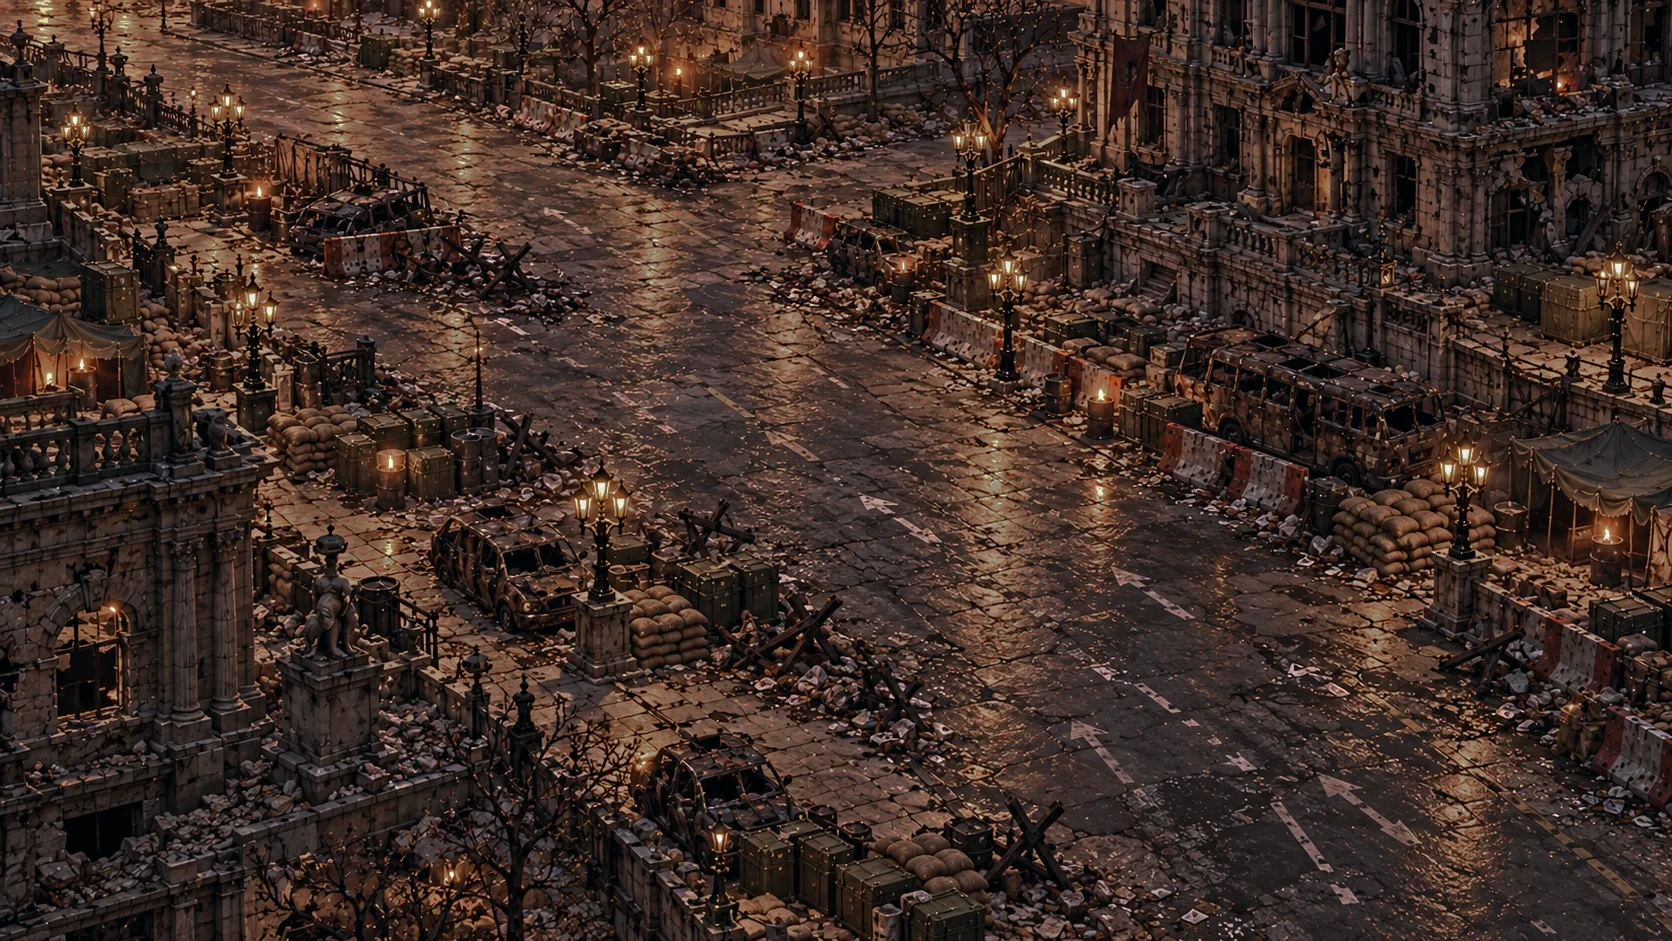
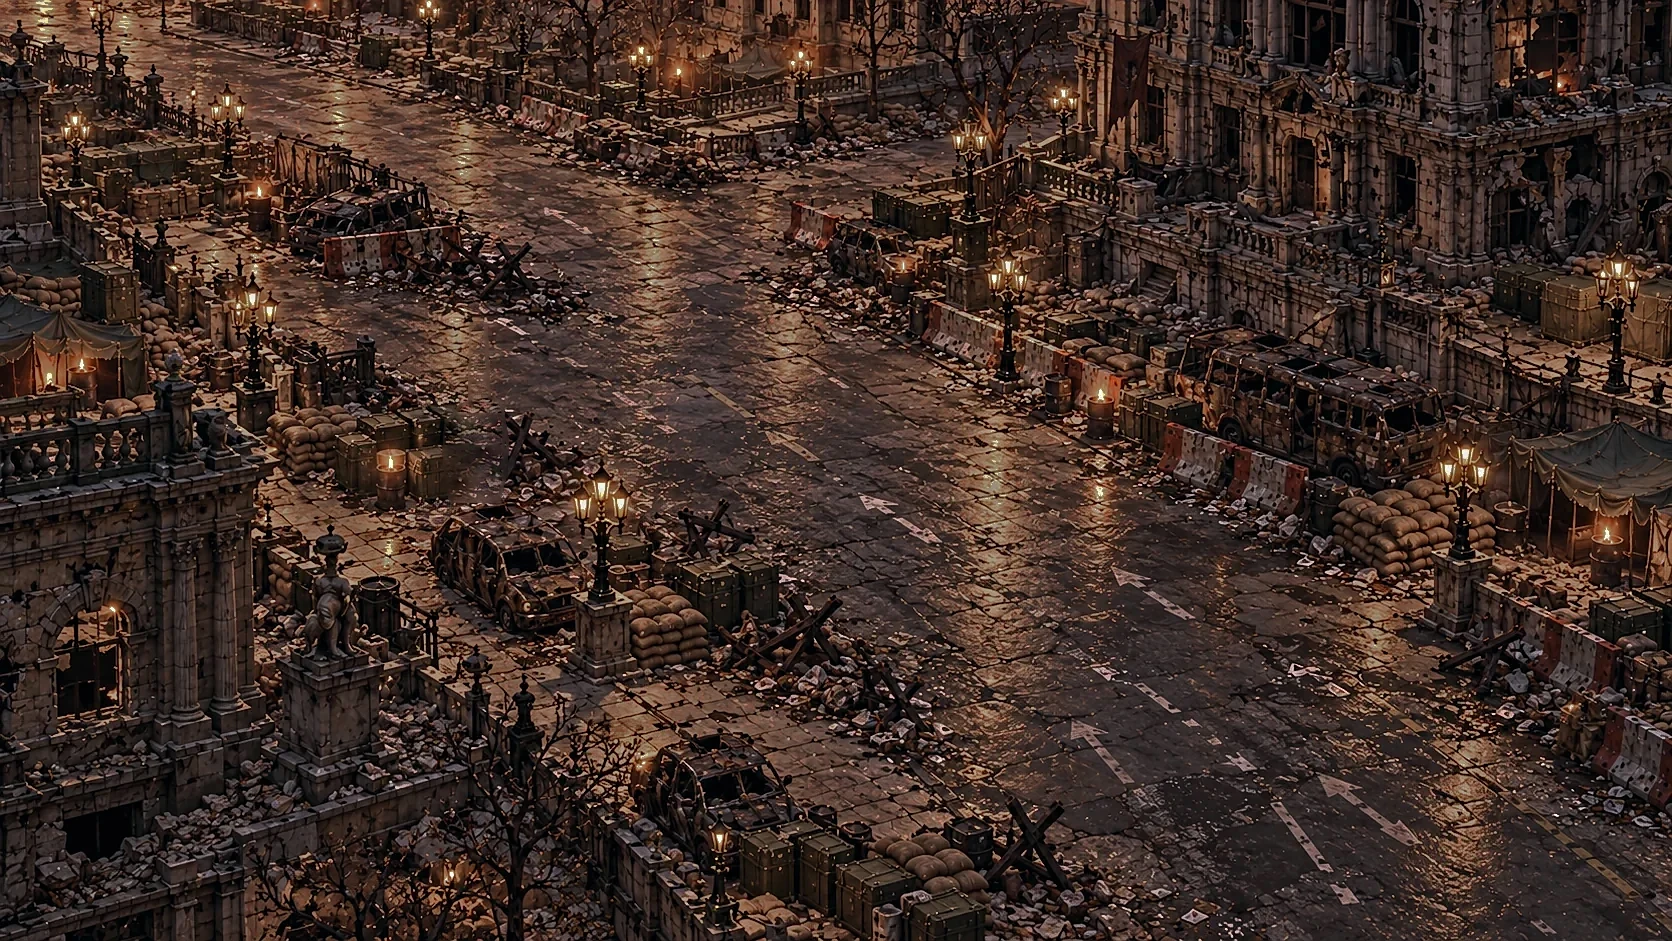
Lambeth: zoom out the camera 20%, sharpen the backdrop, make the lamp-post pocket walkable and paint the lamp out

Changed region(s): [[0.2488, 0.339, 0.311, 0.5547]]

diff --git a/Web/tests/data-areas.test.js b/Web/tests/data-areas.test.js
@@ -16,7 +16,7 @@ const raw = () => structuredClone(JSON.parse(rawText));
 const manifest = JSON.parse(fs.readFileSync(new URL("../public/world/manifest.json", import.meta.url)));
 
 test("the data file is pinned", () => {
[2 lines of base64/hex data omitted]
 });
 
 test("areaDefinitions and areaAssets equal the old in-code export (values and key order) except the one stale identity row, and are frozen", () => {

diff --git a/art/backdrop-paint-out/quilt.py b/art/backdrop-paint-out/quilt.py
@@ -9,7 +9,10 @@ import json, os, sys
 import cv2
 import numpy as np
 from PIL import Image
-from simple_lama_inpainting import SimpleLama
+try:
+    from simple_lama_inpainting import SimpleLama
+except ImportError:  # no torch on this machine: finish the seams with OpenCV's Navier-Stokes inpainting instead
+    SimpleLama = None
 
 root = "/Users/domininclynch/Developer/armagedom/.claude/worktrees/arma-chars-f7f72b"
 area, mask_file, sources_file, out = sys.argv[1:5]
@@ -19,7 +22,8 @@ h, w = img.shape[:2]
 mask = np.zeros((h, w), np.uint8)
 for poly in json.load(open(mask_file)):
     cv2.fillPoly(mask, [np.array(poly, np.int32)], 255)
-mask = cv2.dilate(mask, cv2.getStructuringElement(cv2.MORPH_ELLIPSE, (17, 17)))
+DIL = int(os.environ.get("QUILT_DILATE", 17))  # a thin object (a lamp pole) needs a tighter dilation than a wreck
+mask = cv2.dilate(mask, cv2.getStructuringElement(cv2.MORPH_ELLIPSE, (DIL, DIL)))
 rects = json.load(open(sources_file))  # clean road rectangles, full-image pixels
 clean = np.zeros((h, w), np.uint8)
 for x0, y0, x1, y1 in rects:
@@ -28,8 +32,14 @@ for x0, y0, x1, y1 in rects:
 PAINT_MAX = 0.004
 hsv = cv2.cvtColor(img, cv2.COLOR_RGB2HSV)
 paint = ((hsv[..., 2] > 150) & (hsv[..., 1] < 90)).astype(np.uint8)
-P, STEP, BAND, TOPK, REUSE = 72, 52, 95, 8, 28
+if os.environ.get("QUILT_PAINT_OPEN"):  # wet cobbles are speckled with tiny highlights: keep only bright blobs wider than N px (markings)
+    n = int(os.environ["QUILT_PAINT_OPEN"])
+    paint = cv2.morphologyEx(paint, cv2.MORPH_OPEN, cv2.getStructuringElement(cv2.MORPH_ELLIPSE, (n, n)))
+P, STEP, BAND, TOPK, REUSE = int(os.environ.get("QUILT_P", 72)), int(os.environ.get("QUILT_STEP", 52)), 95, 8, 28
 rng = np.random.default_rng(7)
+TEXTURE_W = float(os.environ.get("QUILT_TEXTURE", 0))  # weight of the texture-match term (0 = the original colour-only match)
+luma = cv2.cvtColor(img, cv2.COLOR_RGB2GRAY).astype(np.float32)
+local_std = np.sqrt(np.maximum(cv2.boxFilter(luma * luma, -1, (P, P)) - cv2.boxFilter(luma, -1, (P, P)) ** 2, 0))
 paint_share = cv2.boxFilter(paint.astype(np.float32), -1, (P, P))  # share of marking pixels in the patch around each centre
 valid = (cv2.erode(clean, np.ones((P, P), np.uint8)) > 0) & (paint_share < PAINT_MAX)  # inside the clean rectangles, almost no marking
 print("candidate centres", int(valid.sum()), "paint share of road rects", float(paint[clean > 0].mean()))
@@ -66,6 +76,12 @@ for py in range(by0, by1, STEP):
             for i, (cx, cy) in enumerate(cands):
                 d = ((img[cy:cy + P, cx:cx + P].astype(np.float32) - tmpl) ** 2).sum(-1) * tm
                 err[i] = d.sum() / wsum
+            if TEXTURE_W:  # prefer sources with the same amount of cobble texture as the real ground around the hole (not the flattest match)
+                wx0, wy0, wx1, wy1 = max(0, x0 - 24), max(0, y0 - 24), min(w, x0 + P + 24), min(h, y0 + P + 24)
+                ring = (mask[wy0:wy1, wx0:wx1] == 0) & (luma[wy0:wy1, wx0:wx1] > 0)
+                target = float(luma[wy0:wy1, wx0:wx1][ring].std())
+                cs = np.array([local_std[cy + P // 2, cx + P // 2] for cx, cy in cands], np.float32)
+                err = err + TEXTURE_W * (cs - target) ** 2
             k = int(rng.choice(np.argsort(err)[:TOPK]))
         else:
             k = int(rng.integers(len(cands)))
@@ -95,16 +111,20 @@ left = (mask > 0) & ~known
 print("patches", placed, "unreached px", int(left.sum()))
 # LaMa for the seams only: pixels no patch reached plus a thin band along the outer edge of the mask.
 edge = cv2.dilate(mask, np.ones((13, 13), np.uint8)) - cv2.erode(mask, np.ones((13, 13), np.uint8))
-seam = ((edge > 0) | left).astype(np.uint8) * 255
+seam = (((edge > 0) if SimpleLama is not None else False) | left).astype(np.uint8) * 255  # without LaMa the edge band is left to the Poisson blend
 for bx0_, by0_, bx1_, by1_ in json.load(open(sources_file.replace("src-", "seams-"))):  # visible patch-row seams found by eye
     seam[by0_:by1_, bx0_:bx1_] = 255
-ys, xs = np.where(seam > 0)
-sx0, sx1, sy0, sy1 = max(0, xs.min() - 64), min(w, xs.max() + 64), max(0, ys.min() - 64), min(h, ys.max() + 64)
-filled = np.asarray(SimpleLama()(Image.fromarray(canvas[sy0:sy1, sx0:sx1]), Image.fromarray(seam[sy0:sy1, sx0:sx1])))
 fixed = canvas.copy()
-region = seam[sy0:sy1, sx0:sx1] > 0
-fixed[sy0:sy1, sx0:sx1][region] = filled[:sy1 - sy0, :sx1 - sx0][region]
+if seam.any():
+    ys, xs = np.where(seam > 0)
+    sx0, sx1, sy0, sy1 = max(0, xs.min() - 64), min(w, xs.max() + 64), max(0, ys.min() - 64), min(h, ys.max() + 64)
+    if SimpleLama is not None:
+        filled = np.asarray(SimpleLama()(Image.fromarray(canvas[sy0:sy1, sx0:sx1]), Image.fromarray(seam[sy0:sy1, sx0:sx1])))
+    else:
+        filled = cv2.inpaint(np.ascontiguousarray(canvas[sy0:sy1, sx0:sx1]), np.ascontiguousarray(seam[sy0:sy1, sx0:sx1]), 5, cv2.INPAINT_NS)
+    region = seam[sy0:sy1, sx0:sx1] > 0
+    fixed[sy0:sy1, sx0:sx1][region] = filled[:sy1 - sy0, :sx1 - sx0][region]
 soft = cv2.GaussianBlur(cv2.dilate(mask, np.ones((5, 5), np.uint8)), (0, 0), 3).astype(np.float32)[..., None] / 255
 result = np.clip(img * (1 - soft) + fixed * soft + 0.5, 0, 255).astype(np.uint8)
-Image.fromarray(result).save(out, "WEBP", quality=88, method=6)
+Image.fromarray(result).save(out, "WEBP", quality=int(os.environ.get("QUILT_QUALITY", 88)), method=6)
 print(area, "done")

diff --git a/art/backdrop-paint-out/sharpen.py b/art/backdrop-paint-out/sharpen.py
@@ -1,0 +1,29 @@
+"""sharpen.py <in.webp> <out.png> [sigma] [amount]
+Luma-only unsharp mask with a halo limiter: chroma (Cr/Cb) is untouched, so the approved colour grade is kept; the sharpened luma is
+clamped to the local min/max of the original (5x5, with a small overshoot allowance) so edges cannot ring into halos.
+Used for lambeth as: sharpen.py <backdrop-phone.webp> sharp.png 1.1 0.9, then QUILT_DILATE=9 QUILT_TEXTURE=40 QUILT_MIXED=1
+QUILT_PAINT_OPEN=5 QUILT_STEP=32 QUILT_P=64 quilt.py lambeth mask-lambeth.json src-lambeth.json <out.webp> sharp.png (one lossy save)."""
+import sys
+import cv2
+import numpy as np
+from PIL import Image
+
+src, out = sys.argv[1:3]
+sigma = float(sys.argv[3]) if len(sys.argv) > 3 else 1.1
+amount = float(sys.argv[4]) if len(sys.argv) > 4 else 0.9
+rgb = np.asarray(Image.open(src).convert("RGB"))
+ycc = cv2.cvtColor(rgb, cv2.COLOR_RGB2YCrCb).astype(np.float32)
+y = ycc[..., 0]
+blur = cv2.GaussianBlur(y, (0, 0), sigma)
+detail = y - blur
+# Do not amplify tiny noise/compression texture: soft threshold the detail (dead zone of 1.5 levels).
+detail = np.sign(detail) * np.maximum(np.abs(detail) - 1.5, 0)
+sharp = y + amount * detail
+k = np.ones((5, 5), np.uint8)
+lo = cv2.erode(y, k) - 6
+hi = cv2.dilate(y, k) + 6
+sharp = np.clip(sharp, lo, hi)
+ycc[..., 0] = np.clip(sharp, 0, 255)
+res = cv2.cvtColor(np.round(ycc).astype(np.uint8), cv2.COLOR_YCrCb2RGB)
+Image.fromarray(res).save(out)
+print("sigma", sigma, "amount", amount, "mean abs change", float(np.abs(res.astype(np.int16) - rgb).mean()))
